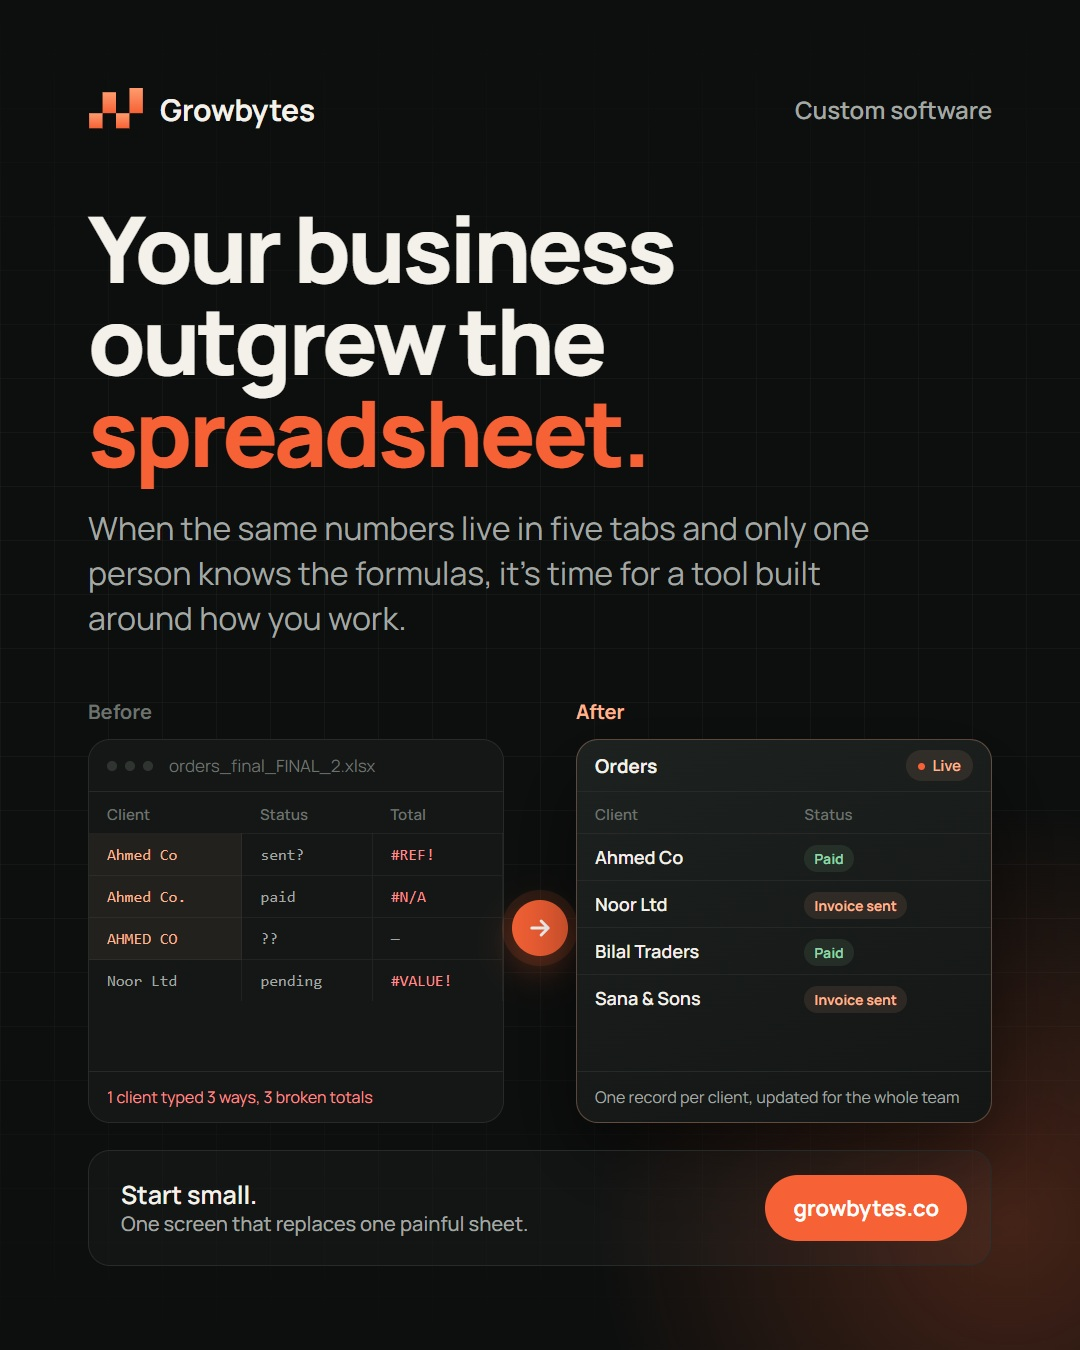
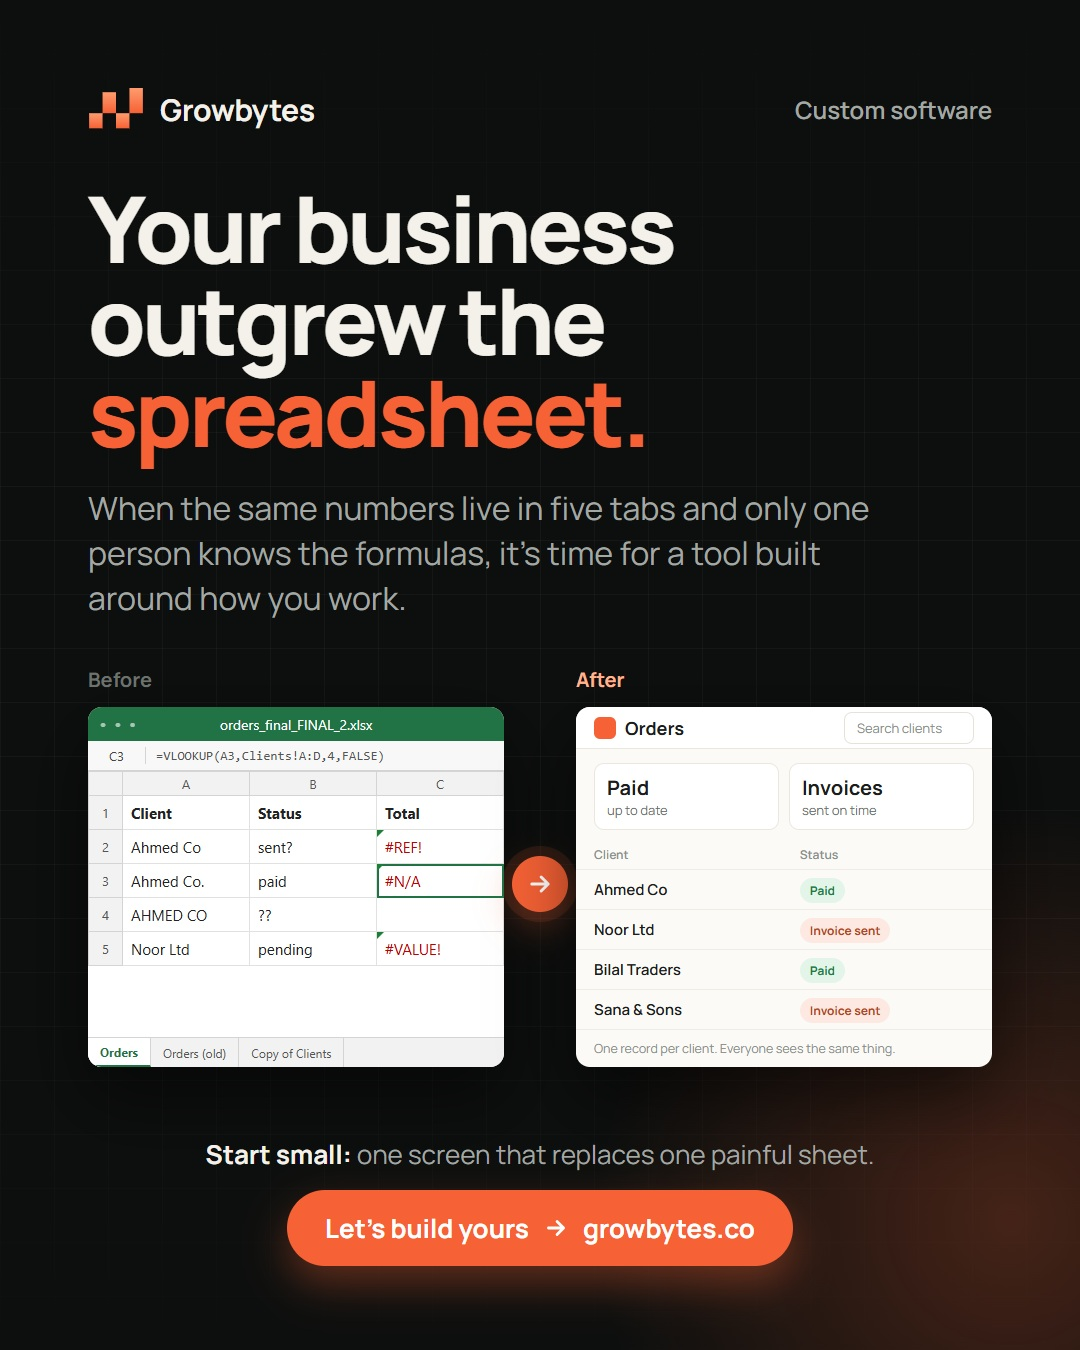
Social: real spreadsheet look, light app screen, centred CTA

diff --git a/brand/social/src/outgrew-spreadsheet.html b/brand/social/src/outgrew-spreadsheet.html
@@ -16,45 +16,61 @@
   .top { display:flex; align-items:center; justify-content:space-between; }
   .brand { display:flex; align-items:center; gap:16px; font-weight:700; font-size:30px; letter-spacing:-.3px; }
   .site { font-size:24px; color:var(--muted); font-weight:600; }
-  h1 { margin-top:72px; font-size:92px; line-height:1.0; font-weight:800; letter-spacing:-3.5px; }
+  h1 { margin-top:52px; font-size:92px; line-height:1.0; font-weight:800; letter-spacing:-3.5px; }
   h1 span { color:var(--orange); }
   .lead { margin-top:28px; font-size:32px; line-height:1.4; color:var(--muted); max-width:820px; }
 
-  .stage { margin-top:58px; display:grid; grid-template-columns:1fr 72px 1fr; align-items:center; }
-  .label { font-size:20px; font-weight:700; margin-bottom:14px; display:flex; align-items:center; gap:10px; }
+  .stage { margin-top:46px; display:grid; grid-template-columns:1fr 72px 1fr; align-items:center; }
+  .label { font-size:20px; font-weight:700; margin-bottom:14px; }
   .label.before { color:var(--dim); }
   .label.after { color:var(--peach); }
-  .card { border-radius:22px; overflow:hidden; height:384px; display:flex; flex-direction:column; }
-  .sheet { background:#141716; border:1px solid var(--line); }
-  .app { background:linear-gradient(160deg, #1d211f, #131614); border:1px solid rgba(255,179,143,.3); box-shadow:0 36px 80px rgba(0,0,0,.5); }
-  .bar { height:52px; border-bottom:1px solid var(--line); display:flex; align-items:center; gap:8px; padding:0 18px; font-size:17px; color:var(--dim); }
-  .bar i { width:10px; height:10px; border-radius:50%; background:#2f3431; }
-  .bar .name { margin-left:8px; }
-  .app .bar { color:var(--ink); font-weight:700; font-size:19px; justify-content:space-between; }
-  .live { font-size:15px; font-weight:600; color:var(--peach); background:rgba(255,179,143,.1); padding:5px 12px; border-radius:999px; }
-  .live:before { content:""; display:inline-block; width:7px; height:7px; border-radius:50%; background:var(--orange); margin-right:7px; vertical-align:1px; }
+  .card { border-radius:14px; overflow:hidden; height:360px; display:flex; flex-direction:column; box-shadow:0 30px 70px rgba(0,0,0,.55); }
 
-  table { width:100%; border-collapse:collapse; font-size:18px; }
-  th { text-align:left; font-weight:600; color:var(--dim); font-size:15px; padding:12px 18px 8px; }
-  td { padding:11px 18px; border-top:1px solid rgba(255,255,255,.05); color:var(--muted); white-space:nowrap; }
-  .sheet td { font-family:Consolas, monospace; font-size:16px; border-right:1px solid rgba(255,255,255,.05); }
-  .err { color:var(--red); }
-  .dup { color:var(--peach); background:rgba(255,179,143,.06); }
-  .pill { font-size:14px; font-weight:700; padding:4px 10px; border-radius:999px; }
-  .paid { color:var(--green); background:rgba(143,214,168,.1); }
-  .sent { color:var(--peach); background:rgba(255,179,143,.1); }
-  .app td:first-child { color:var(--ink); font-weight:600; }
-  .note { margin-top:auto; padding:14px 18px; border-top:1px solid var(--line); font-size:16px; display:flex; gap:8px; align-items:center; }
-  .sheet .note { color:var(--red); }
-  .app .note { color:var(--muted); }
+  /* Before: a familiar desktop spreadsheet */
+  .xl { background:#fff; font-family:"Segoe UI", Arial, sans-serif; color:#222; }
+  .xl .title { height:34px; background:#217346; color:#fff; font-size:14px; display:flex; align-items:center; justify-content:center; position:relative; }
+  .xl .title:before { content:"● ● ●"; position:absolute; left:12px; font-size:10px; letter-spacing:3px; opacity:.6; }
+  .xl .fx { height:30px; border-bottom:1px solid #d4d4d4; display:flex; align-items:center; font-size:13px; color:#444; background:#f8f8f8; }
+  .xl .fx b { width:58px; text-align:center; border-right:1px solid #d4d4d4; font-weight:400; }
+  .xl .fx span { padding-left:10px; font-family:Consolas, monospace; color:#555; }
+  .xl table { border-collapse:collapse; width:100%; font-size:15px; table-layout:fixed; }
+  .xl th { background:#f2f2f2; color:#555; font-weight:400; font-size:13px; height:24px; border:1px solid #d4d4d4; }
+  .xl th:first-child { width:34px; }
+  .xl td { height:34px; border:1px solid #e1e1e1; padding:0 8px; white-space:nowrap; overflow:hidden; }
+  .xl td.n { background:#f2f2f2; color:#555; text-align:center; font-size:13px; border-color:#d4d4d4; }
+  .xl .h { font-weight:700; }
+  .xl .err { color:#c00000; position:relative; }
+  .xl .err:before { content:""; position:absolute; left:0; top:0; border-top:7px solid #1a7f37; border-right:7px solid transparent; }
+  .xl .sel { outline:2px solid #217346; outline-offset:-2px; }
+  .xl .tabs { margin-top:auto; height:30px; background:#f2f2f2; border-top:1px solid #d4d4d4; display:flex; font-size:12px; color:#555; }
+  .xl .tabs span { padding:0 12px; display:flex; align-items:center; border-right:1px solid #d4d4d4; }
+  .xl .tabs .on { background:#fff; color:#217346; font-weight:700; border-bottom:2px solid #217346; }
+
+  /* After: a clean light web app */
+  .app { background:#fbfaf7; color:#1b1d1c; }
+  .app .top2 { height:52px; display:flex; align-items:center; justify-content:space-between; padding:0 18px; border-bottom:1px solid #ebe7df; background:#fff; }
+  .app .top2 b { font-size:18px; display:flex; align-items:center; gap:9px; }
+  .app .top2 b:before { content:""; width:22px; height:22px; border-radius:6px; background:var(--orange); }
+  .app .search { font-size:13px; color:#8a8f8b; border:1px solid #e6e2da; border-radius:8px; padding:6px 12px; width:130px; }
+  .app .sum { display:grid; grid-template-columns:1fr 1fr; gap:10px; padding:14px 18px 6px; }
+  .app .sum div { background:#fff; border:1px solid #ebe7df; border-radius:10px; padding:10px 12px; font-size:13px; color:#6b706c; }
+  .app .sum strong { display:block; font-size:20px; color:#1b1d1c; }
+  .app table { border-collapse:collapse; width:100%; font-size:15px; }
+  .app th { text-align:left; font-size:12px; font-weight:600; color:#8a8f8b; padding:10px 18px 6px; }
+  .app td { padding:9px 18px; border-top:1px solid #efece5; }
+  .app td:first-child { font-weight:600; }
+  .pill { font-size:12px; font-weight:700; padding:4px 10px; border-radius:999px; }
+  .paid { color:#17803d; background:#e3f4e8; }
+  .sent { color:#b2441f; background:#fde9e1; }
+  .app .note { margin-top:auto; padding:10px 18px; font-size:12.5px; color:#8a8f8b; border-top:1px solid #efece5; }
 
   .link { display:grid; place-items:center; padding-top:34px; }
   .link span { width:56px; height:56px; border-radius:50%; background:var(--orange); display:grid; place-items:center; box-shadow:0 0 0 10px rgba(246,97,53,.12), 0 14px 36px rgba(246,97,53,.35); }
 
-  .foot { margin-top:auto; display:flex; align-items:center; justify-content:space-between; gap:24px; padding:24px 24px 24px 32px; border-radius:22px; border:1px solid var(--line); background:rgba(255,255,255,.025); }
-  .foot p { font-size:25px; font-weight:600; line-height:1.3; }
-  .foot p em { font-style:normal; color:var(--muted); font-weight:500; display:block; font-size:20px; }
-  .cta { flex-shrink:0; font-size:22px; font-weight:700; color:#fff; background:var(--orange); padding:18px 28px; border-radius:999px; }
+  .foot { margin-top:auto; text-align:center; display:flex; flex-direction:column; align-items:center; gap:18px; }
+  .foot p { font-size:26px; color:var(--muted); }
+  .foot p b { color:var(--ink); font-weight:700; }
+  .cta { display:inline-flex; align-items:center; gap:14px; font-size:26px; font-weight:700; color:#fff; background:var(--orange); padding:20px 38px; border-radius:999px; box-shadow:0 18px 40px rgba(246,97,53,.35); }
 </style>
 </head>
 <body>
@@ -76,16 +92,19 @@
     <div class="stage">
       <div>
         <div class="label before">Before</div>
-        <div class="card sheet">
-          <div class="bar"><i></i><i></i><i></i><span class="name">orders_final_FINAL_2.xlsx</span></div>
+        <div class="card xl">
+          <div class="title">orders_final_FINAL_2.xlsx</div>
+          <div class="fx"><b>C3</b><span>=VLOOKUP(A3,Clients!A:D,4,FALSE)</span></div>
           <table>
-            <tr><th>Client</th><th>Status</th><th>Total</th></tr>
-            <tr><td class="dup">Ahmed Co</td><td>sent?</td><td class="err">#REF!</td></tr>
-            <tr><td class="dup">Ahmed Co.</td><td>paid</td><td class="err">#N/A</td></tr>
-            <tr><td class="dup">AHMED CO</td><td>??</td><td>—</td></tr>
-            <tr><td>Noor Ltd</td><td>pending</td><td class="err">#VALUE!</td></tr>
+            <tr><th></th><th>A</th><th>B</th><th>C</th></tr>
+            <tr><td class="n">1</td><td class="h">Client</td><td class="h">Status</td><td class="h">Total</td></tr>
+            <tr><td class="n">2</td><td>Ahmed Co</td><td>sent?</td><td class="err">#REF!</td></tr>
+            <tr><td class="n">3</td><td>Ahmed Co.</td><td>paid</td><td class="err sel">#N/A</td></tr>
+            <tr><td class="n">4</td><td>AHMED CO</td><td>??</td><td></td></tr>
+            <tr><td class="n">5</td><td>Noor Ltd</td><td>pending</td><td class="err">#VALUE!</td></tr>
+            
           </table>
-          <div class="note">1 client typed 3 ways, 3 broken totals</div>
+          <div class="tabs"><span class="on">Orders</span><span>Orders (old)</span><span>Copy of Clients</span></div>
         </div>
       </div>
 
@@ -94,7 +113,8 @@
       <div>
         <div class="label after">After</div>
         <div class="card app">
-          <div class="bar">Orders <span class="live">Live</span></div>
+          <div class="top2"><b>Orders</b><span class="search">Search clients</span></div>
+          <div class="sum"><div><strong>Paid</strong>up to date</div><div><strong>Invoices</strong>sent on time</div></div>
           <table>
             <tr><th>Client</th><th>Status</th></tr>
             <tr><td>Ahmed Co</td><td><span class="pill paid">Paid</span></td></tr>
@@ -102,14 +122,14 @@
             <tr><td>Bilal Traders</td><td><span class="pill paid">Paid</span></td></tr>
             <tr><td>Sana &amp; Sons</td><td><span class="pill sent">Invoice sent</span></td></tr>
           </table>
-          <div class="note">One record per client, updated for the whole team</div>
+          <div class="note">One record per client. Everyone sees the same thing.</div>
         </div>
       </div>
     </div>
 
     <div class="foot">
-      <p>Start small.<em>One screen that replaces one painful sheet.</em></p>
-      <div class="cta">growbytes.co</div>
+      <p><b>Start small:</b> one screen that replaces one painful sheet.</p>
+      <div class="cta">Let&rsquo;s build yours <svg width="26" height="26" viewBox="0 0 24 24" fill="none" stroke="#fff" stroke-width="2.6" stroke-linecap="round" stroke-linejoin="round"><path d="M5 12h14M13 6l6 6-6 6"/></svg> growbytes.co</div>
     </div>
   </div>
 </body>
